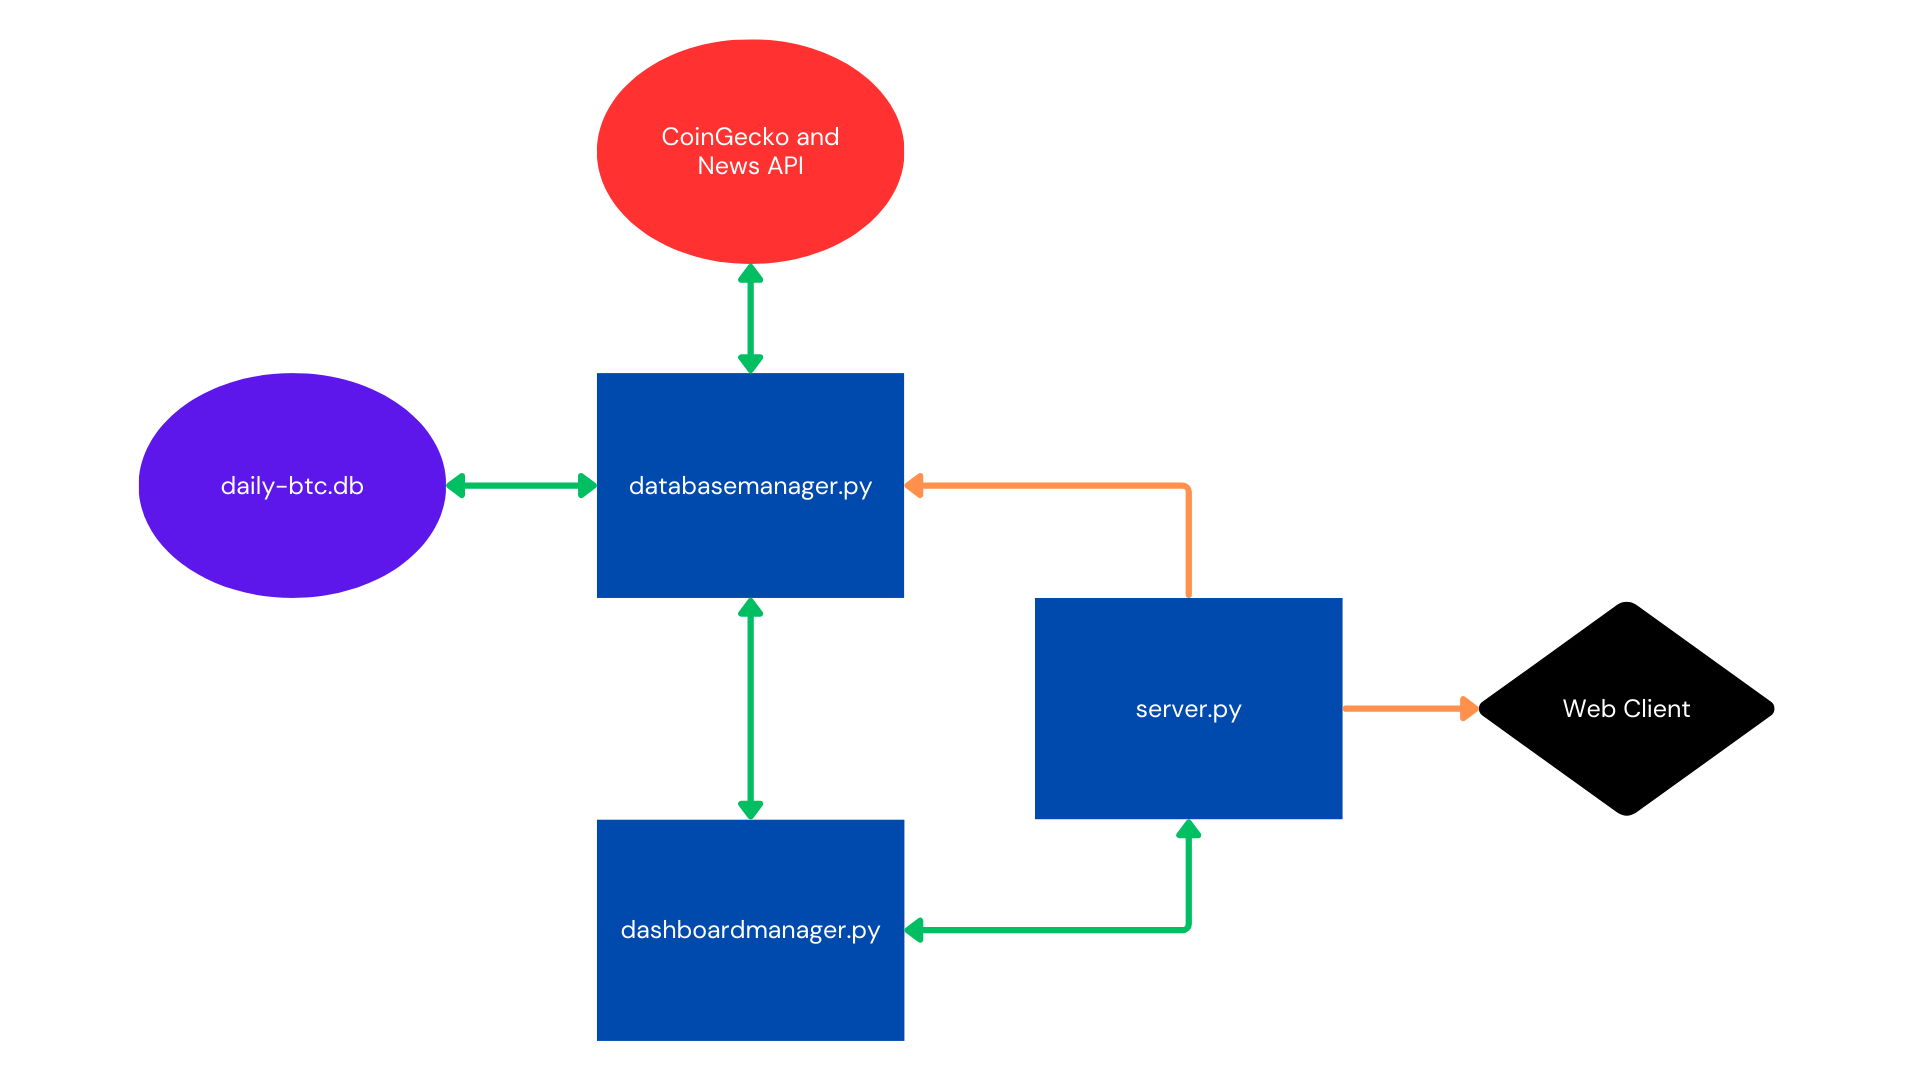
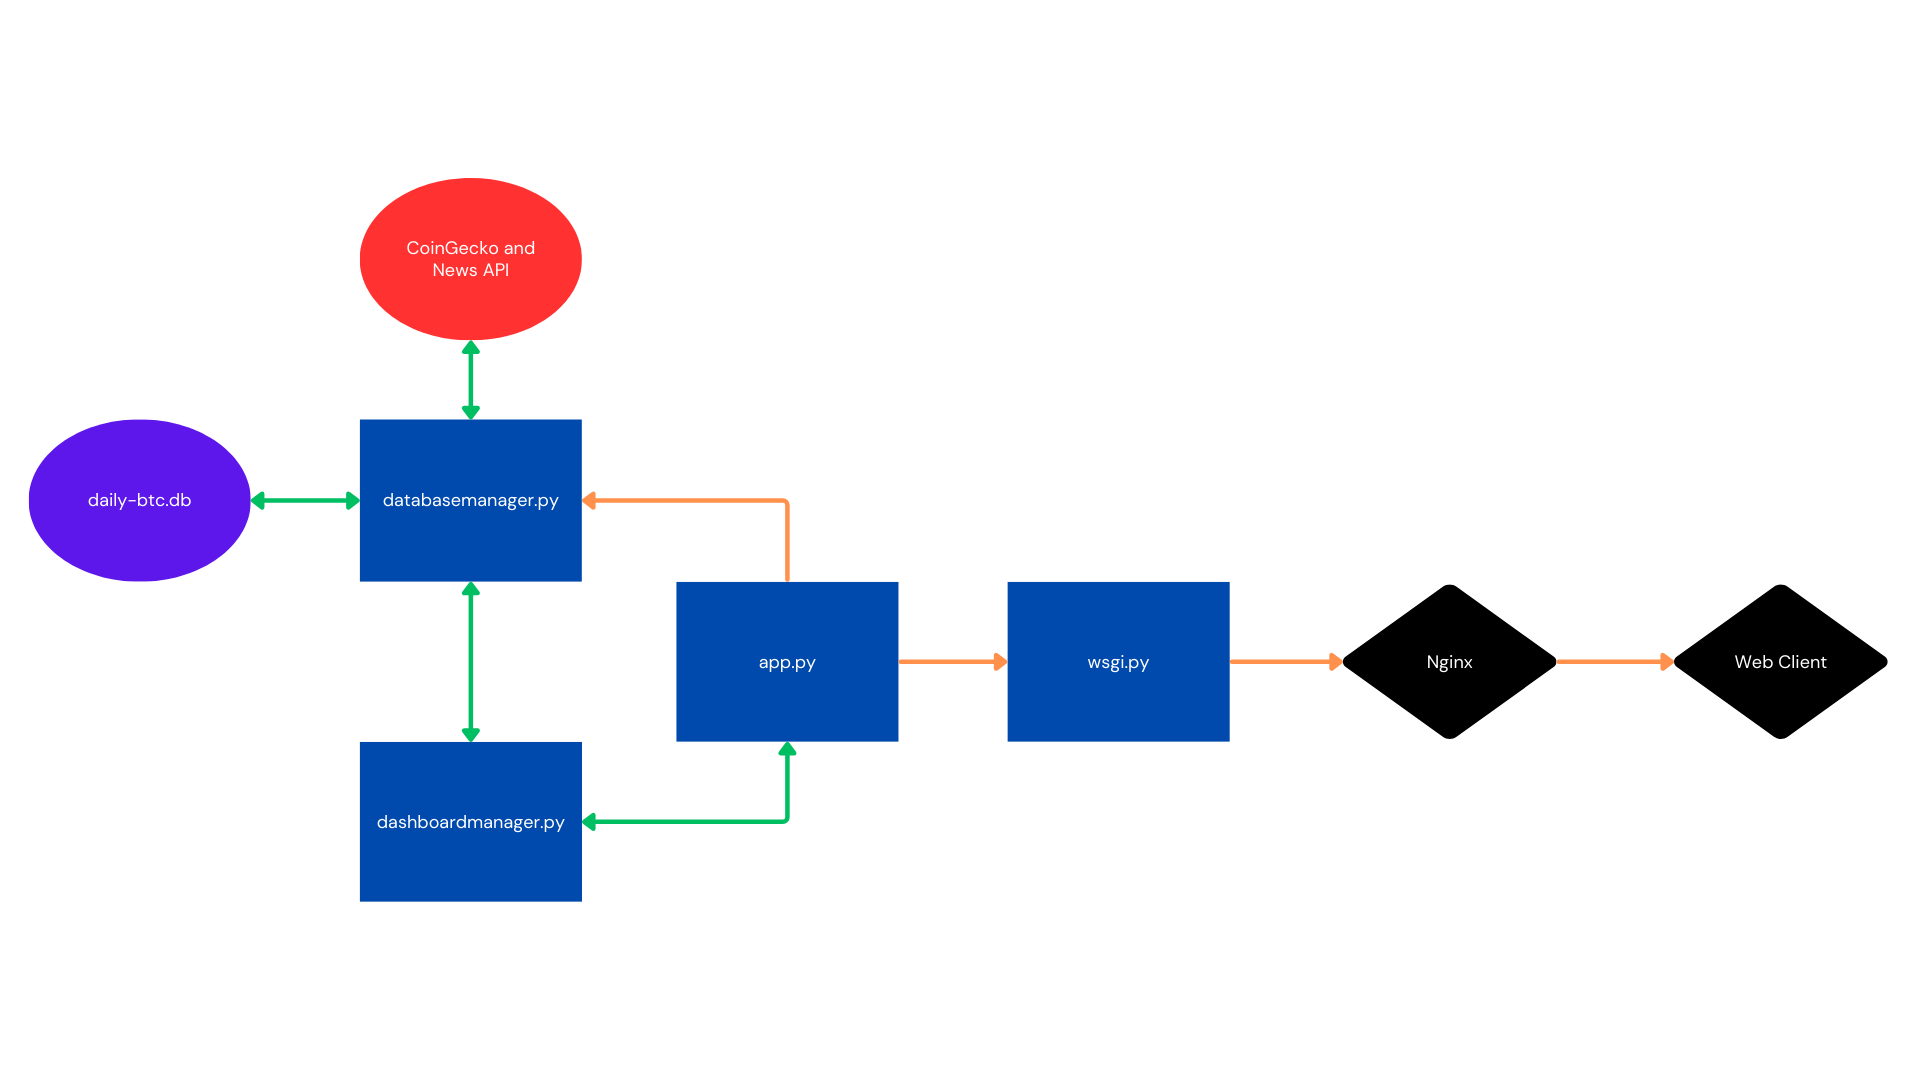
Update readme

Changed region(s): [[0.0, 0.0306, 1.0, 0.9778]]

diff --git a/README.md b/README.md
@@ -24,11 +24,13 @@ Above is a diagram of the system. Here is an overview of its operations:
             <li>Built on Dash, HTML and CSS(Bootstrap).</li>
         </ul>
     </li>
-    <li>server.py: A server to oversee managers and web clients' requests.</li>
+    <li>app.py: The Web Application that also oversees the managers.</li>
+    <li>wsgi.py: A WSGI built on Gunicorn.</li>
+    <li>Nginx: A Web Server.</li>
 </ol>
 
 # Results
-The Daily BTC: [INSERT WEBPAGE LINK]
+The Daily BTC: <a href="www.thedailybtc.online" target="_blank" rel="noopener noreferrer">www.thedailybtc.online</a>
 
 By going to the webpage above, a user can get a quick update on recent price actions and major news for Bitcoin.
 
